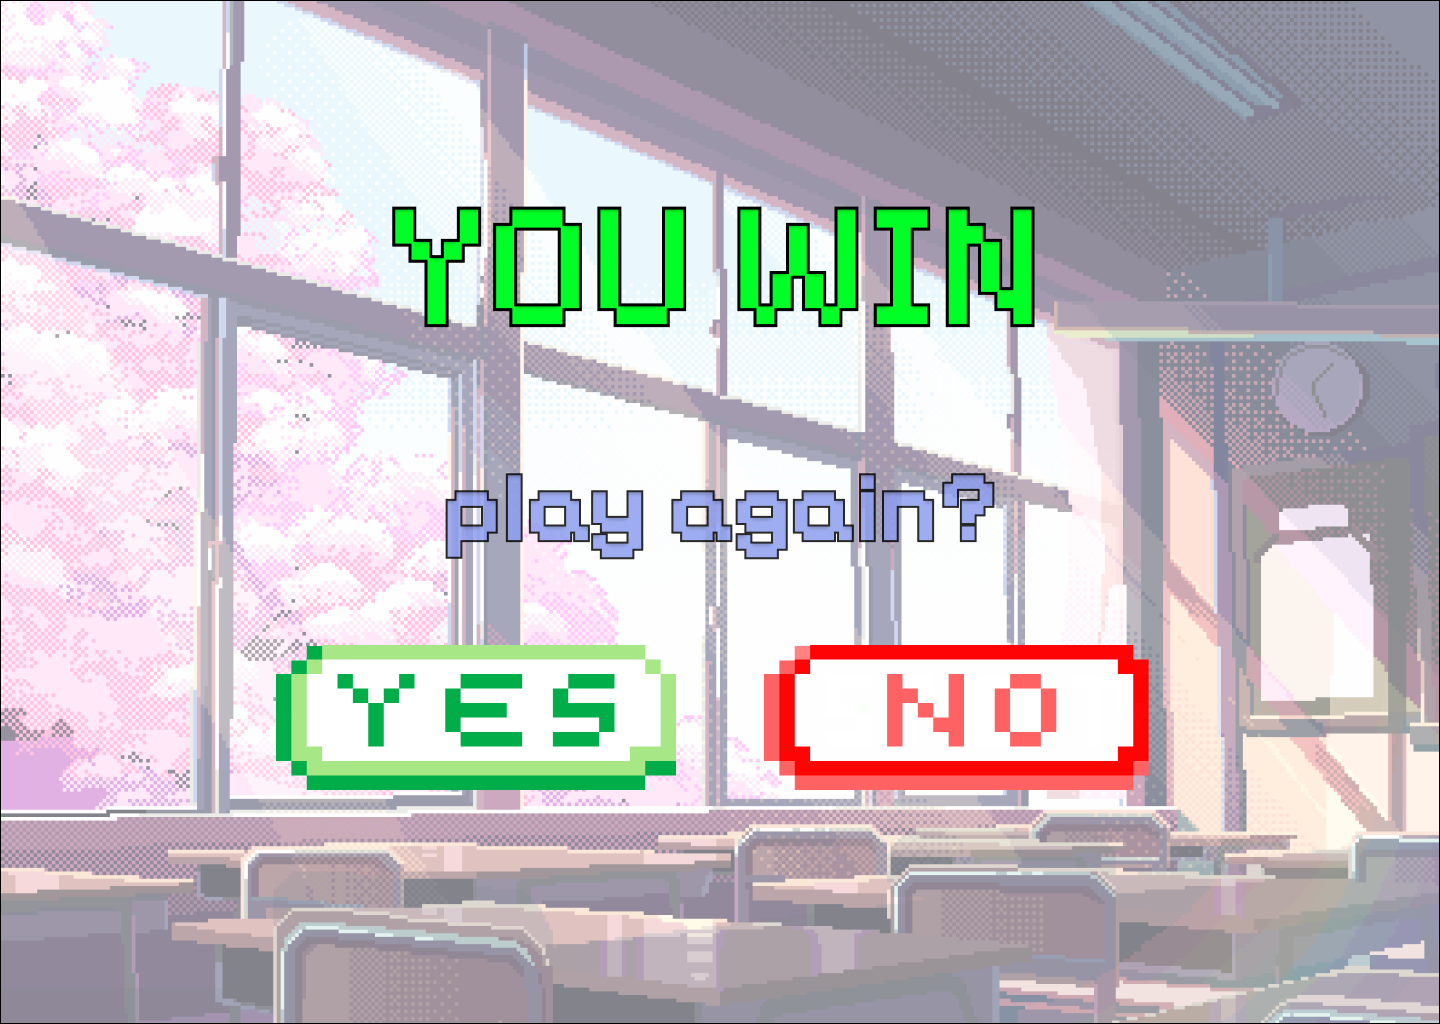
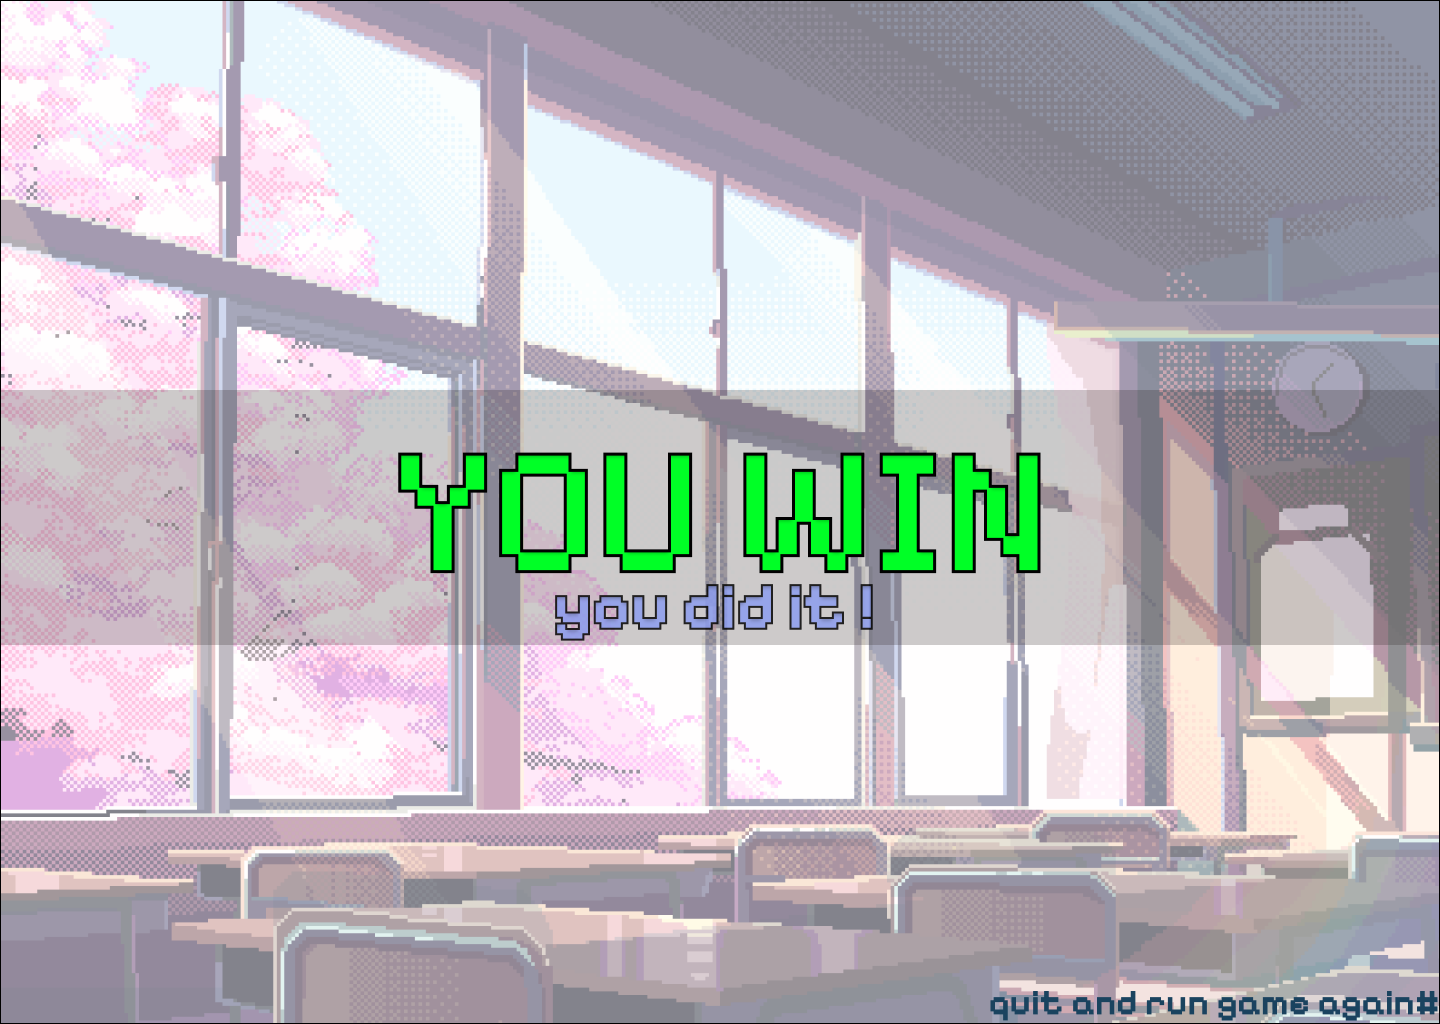
add the ending

diff --git a/kitcats.py b/kitcats.py
@@ -582,7 +582,6 @@ while running:
         # Main game loop
         running = True
         clock = pygame.time.Clock()
-
         while running:
             for event in pygame.event.get():
                 if event.type == pygame.QUIT:
@@ -928,7 +927,11 @@ while running:
                                             problem_count += 1
                                             add_problem()
                                     if remains_done == remains_target:
-                                        running = False
+                                        back_img = pygame.image.load("./assets/menu/WIN.png").convert_alpha()
+                                        win = pygame.transform.scale(back_img, (width, height))
+                                        screen.blit(win, (0, 0))
+                                        pygame.display.flip()
+                                        pygame.time.wait(15555)
                                 else:
                                     # Decreasing time
                                     reduce_game_timer()
@@ -946,7 +949,11 @@ while running:
 
             # Check game over condition
             if problem_count >= problem_limit:
-                running = False
+                back_img = pygame.image.load("./assets/menu/LOSE.png").convert_alpha()
+                lose = pygame.transform.scale(back_img, (width, height))
+                screen.blit(lose, (0, 0))
+                pygame.display.flip()
+                pygame.time.wait(15555)
 
             # Draw game screen
             draw_game_screen(assets)
@@ -1231,7 +1238,11 @@ while running:
                                             problem_count += 1
                                             add_problem()
                                     if remains_done == remains_target:
-                                        running = False
+                                        back_img = pygame.image.load("./assets/menu/WIN.png").convert_alpha()
+                                        win = pygame.transform.scale(back_img, (width, height))
+                                        screen.blit(win, (0, 0))
+                                        pygame.display.flip()
+                                        pygame.time.wait(15555)
                                 else:
                                     # Decreasing time
                                     reduce_game_timer()
@@ -1249,7 +1260,11 @@ while running:
 
             # Check game over condition
             if problem_count >= problem_limit:
-                running = False
+                back_img = pygame.image.load("./assets/menu/LOSE.png").convert_alpha()
+                lose = pygame.transform.scale(back_img, (width, height))
+                screen.blit(lose, (0, 0))
+                pygame.display.flip()
+                pygame.time.wait(15555)
 
             # Draw game screen
             draw_game_screen(assets)
